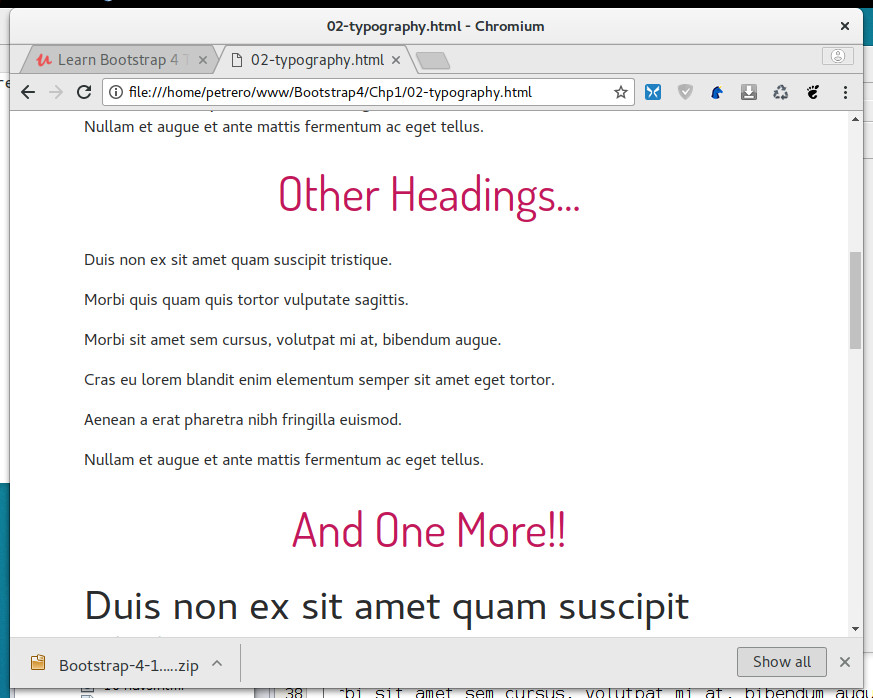
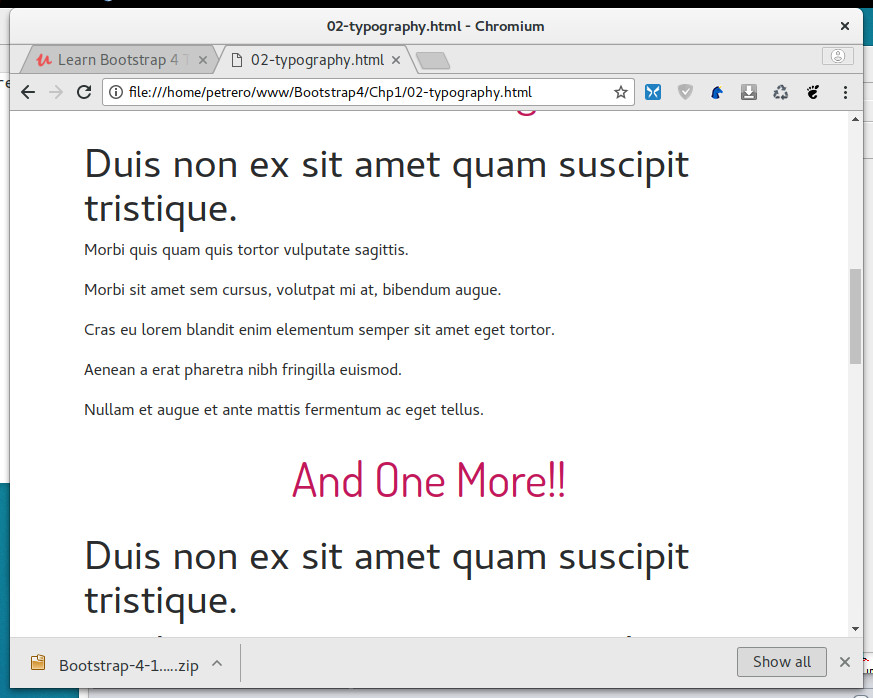
h classes go from 1 to six. Of course is not recomended to use them. Instead Use h tags

diff --git a/Chp1/02-typography.html b/Chp1/02-typography.html
@@ -34,11 +34,11 @@
 
       <h2 class="lecture-title">Other Headings...</h2>
       <p class="h1">Duis non ex sit amet quam suscipit tristique.</p>
-      <p>Morbi quis quam quis tortor vulputate sagittis.</p>
-      <p>Morbi sit amet sem cursus, volutpat mi at, bibendum augue.</p>
-      <p>Cras eu lorem blandit enim elementum semper sit amet eget tortor.</p>
-      <p>Aenean a erat pharetra nibh fringilla euismod.</p>
-      <p>Nullam et augue et ante mattis fermentum ac eget tellus.</p>
+      <p class="h2">Morbi quis quam quis tortor vulputate sagittis.</p>
+      <p class="h3">Morbi sit amet sem cursus, volutpat mi at, bibendum augue.</p>
+      <p class="h4">Cras eu lorem blandit enim elementum semper sit amet eget tortor.</p>
+      <p class="h5">Aenean a erat pharetra nibh fringilla euismod.</p>
+      <p class="h6">Nullam et augue et ante mattis fermentum ac eget tellus.</p>
 
       <h2 class="lecture-title">And One More!!</h2>
       <h1>Duis non ex sit amet quam suscipit tristique.</h1>
